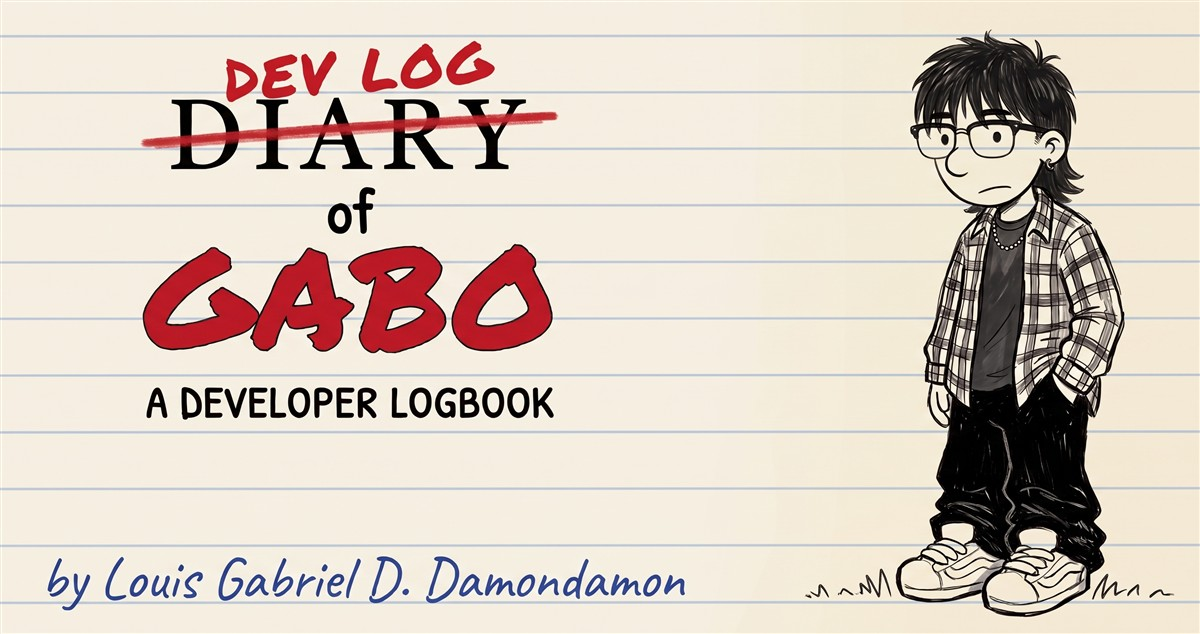
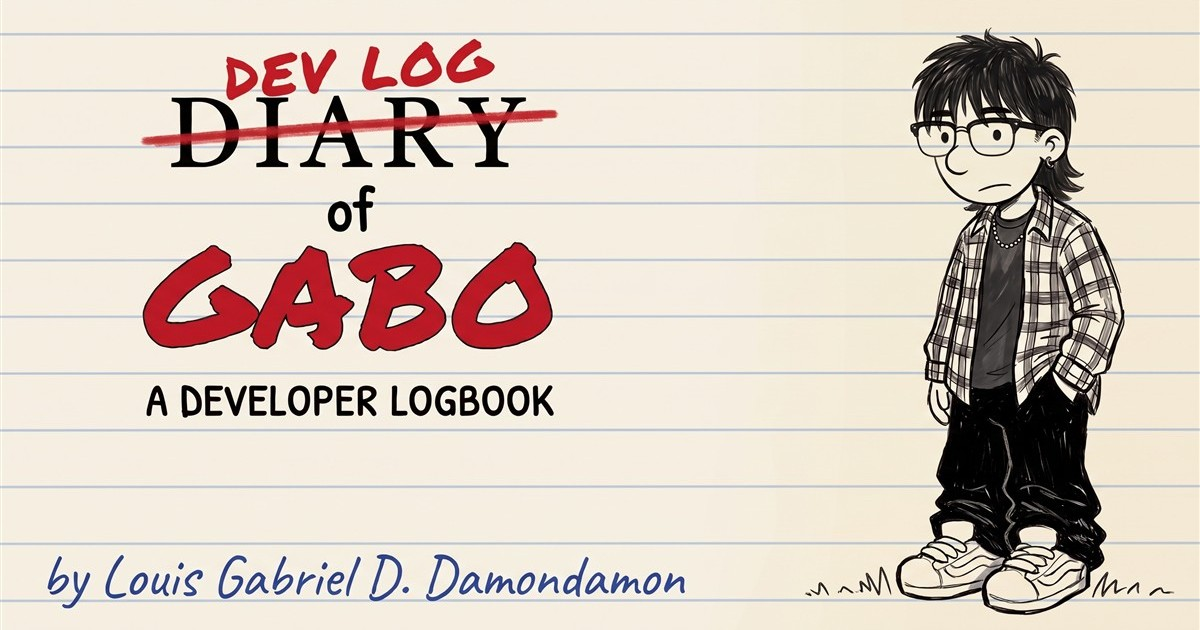
feat(seo): update open graph metadata, site name, and optimize preview dimensions

diff --git a/index.html b/index.html
@@ -11,38 +11,40 @@
     <meta name="theme-color" content="#fbf8f3" />
     <meta
       name="description"
-      content="Diary of Gabo: interactive notebook portfolio of Louis Gabriel D. Damondamon, software and game developer."
+      content="Developer portfolio of Louis Gabriel D. Damondamon (Gabo)"
     />
 
     <!-- Open Graph / Facebook / LinkedIn / Discord -->
     <meta property="og:type" content="website" />
-    <meta property="og:title" content="Diary of Gabo · Louis Gabriel D. Damondamon" />
+    <meta property="og:site_name" content="LOUIS GABRIEL D. DAMONDAMON" />
+    <meta property="og:url" content="https://gabo-portfolio.vercel.app/" />
+    <meta property="og:title" content="Diary of Gabo · Developer Portfolio" />
     <meta
       property="og:description"
-      content="Flip through the pages of Gabo's developer diary: projects, 38-tool tech stack, hackathon achievements, and certificates."
+      content="Developer portfolio of Louis Gabriel D. Damondamon (Gabo)"
     />
-    <meta property="og:image" content="/images/preview/linkpreview.jpg" />
+    <meta property="og:image" content="https://gabo-portfolio.vercel.app/images/preview/linkpreview.jpg" />
     <meta property="og:image:type" content="image/jpeg" />
     <meta property="og:image:width" content="1200" />
-    <meta property="og:image:height" content="634" />
-    <meta property="og:image:alt" content="Diary of Gabo · A Developer Logbook by Louis Gabriel D. Damondamon" />
+    <meta property="og:image:height" content="630" />
+    <meta property="og:image:alt" content="Diary of Gabo · Developer Portfolio" />
 
     <!-- Twitter / X Cards -->
     <meta name="twitter:card" content="summary_large_image" />
-    <meta name="twitter:title" content="Diary of Gabo · Louis Gabriel D. Damondamon" />
+    <meta name="twitter:title" content="Diary of Gabo · Developer Portfolio" />
     <meta
       name="twitter:description"
-      content="Flip through the pages of Gabo's developer diary: projects, 38-tool tech stack, hackathon achievements, and certificates."
+      content="Developer portfolio of Louis Gabriel D. Damondamon (Gabo)"
     />
-    <meta name="twitter:image" content="/images/preview/linkpreview.jpg" />
-    <meta name="twitter:image:alt" content="Diary of Gabo · A Developer Logbook by Louis Gabriel D. Damondamon" />
+    <meta name="twitter:image" content="https://gabo-portfolio.vercel.app/images/preview/linkpreview.jpg" />
+    <meta name="twitter:image:alt" content="Diary of Gabo · Developer Portfolio" />
     <link rel="preconnect" href="https://fonts.googleapis.com" />
     <link rel="preconnect" href="https://fonts.gstatic.com" crossorigin />
     <link
       href="https://fonts.googleapis.com/css2?family=Caveat:wght@600;700&family=Patrick+Hand&family=Permanent+Marker&display=swap"
       rel="stylesheet"
     />
-    <title>Diary of Gabo · Louis Gabriel D. Damondamon</title>
+    <title>Diary of Gabo · Developer Portfolio</title>
   </head>
   <body>
     <div id="root"></div>
